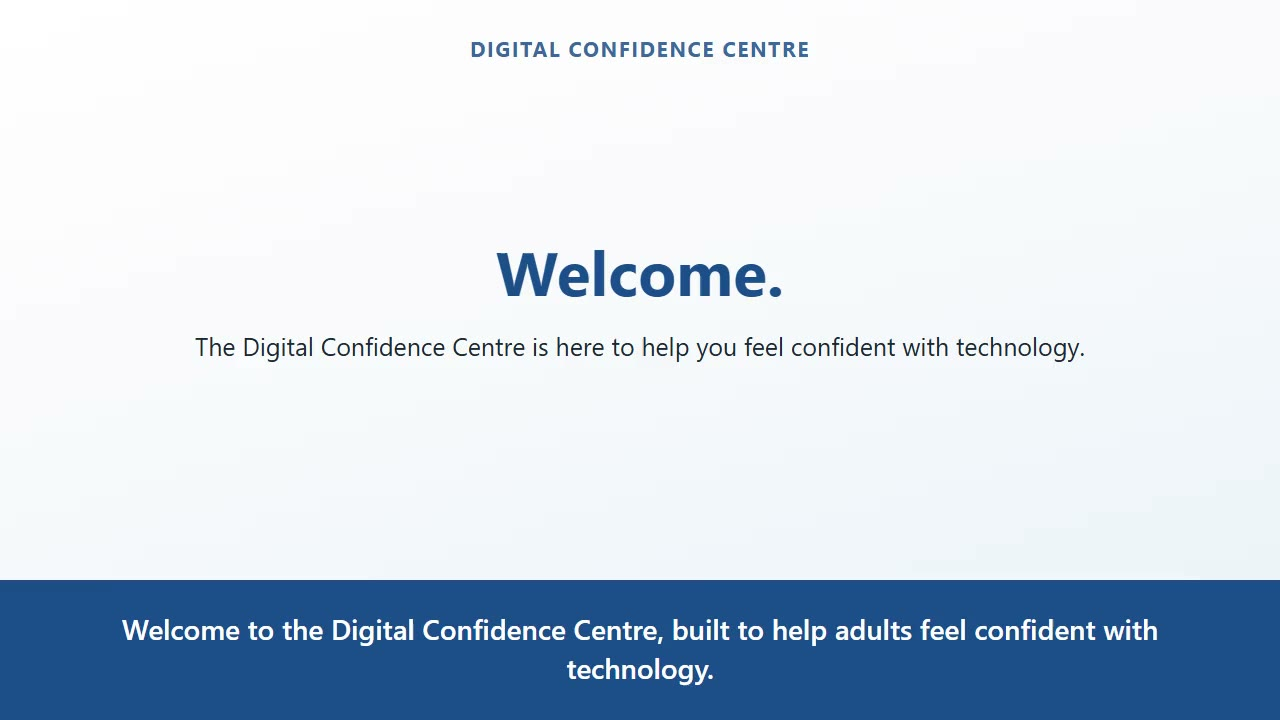
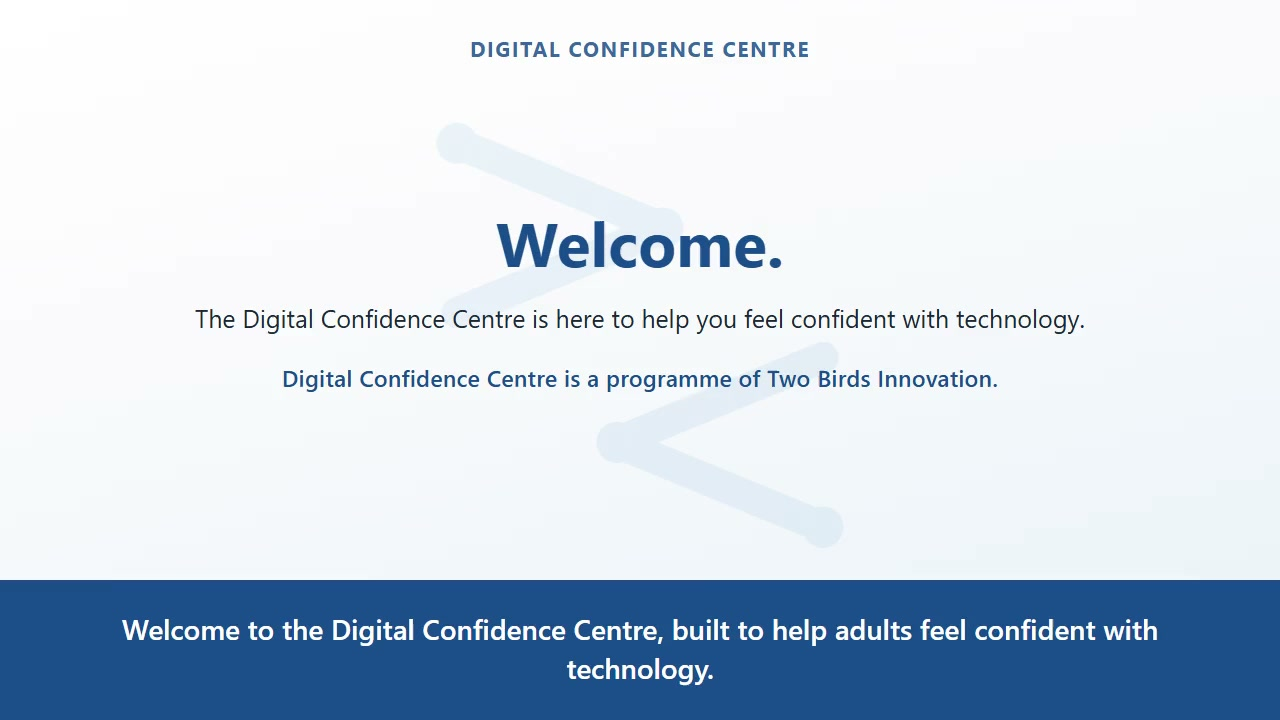
feat(beta-video): re-render welcome video with trust watermark + attribution line
S-DCC-VIDEO-WATERMARK-001, per beta-welcome-wizard-SPEC-2026-07-28.md S18.

Scene 1 (opening) gains a plate-less Two Birds chevron watermark
(recoloured white->#0066CC, 620x620px, 6% opacity, title-card treatment
only -- hidden on scenes 2-7) plus the canonical attribution line
("Digital Confidence Centre is a programme of Two Birds Innovation.",
FR equivalent) beneath the existing note text. Named, dated Feathers
Model exception recorded in hal-stack/brand/guidelines/dcc-adult.md's
Logo section per S18.5 -- one-line revert path if Aaron wants to undo it.

Nothing else changed: narration, scene durations, and both .vtt files
are untouched (diff-verified against the live captions, ignoring only
timestamps) -- durations land within 0.5s of the approved 2026-07-27
cuts (38.6s EN vs 39.1s, 43.3s FR exact match). Re-rendered via the
existing loon-render-generic.py pipeline (Playwright capture + edge-tts
+ ffmpeg, no pipeline changes needed), copied over videos/dcc-beta-welcome-
{en,fr}.mp4 + regenerated poster frames from the new cut. Dated 2026-07-27
masters kept in place as the record of what Aaron reviewed; new masters
dated 2026-07-28 alongside them, matching the existing convention.

Verified: poster frame matches new video's first frame; live wizard
(Playwright) loads the new video (readyState 4, HAVE_ENOUGH_DATA), 0
console errors.

Claude-Session: https://claude.ai/code/session_0158DPsJfv3z2EoGBFeuuLXs

Changed region(s): [[0.1562, 0.3056, 0.8438, 0.55]]

diff --git a/_feedback/poc/dcc-beta-welcome-render-v2.html b/_feedback/poc/dcc-beta-welcome-render-v2.html
@@ -32,15 +32,32 @@
   .stage{position:relative;width:1280px;height:720px;overflow:hidden;
     background:linear-gradient(165deg,#FFFFFF 0%,#F8F9FB 45%,#EAF1F8 100%);color:var(--ink);
     font-family:'Source Sans 3','Segoe UI',Roboto,Helvetica,Arial,sans-serif}
-  .slide{position:absolute;inset:0;display:flex;flex-direction:column;align-items:center;justify-content:center;
+  .slide{position:absolute;inset:0;z-index:1;display:flex;flex-direction:column;align-items:center;justify-content:center;
     padding:56px 76px 176px;text-align:center;opacity:0}
   .slide.active{opacity:1}
   .wordmark{position:absolute;top:34px;left:0;right:0;text-align:center;
     font-size:21px;font-weight:700;letter-spacing:1.6px;text-transform:uppercase;color:var(--primary);opacity:.85}
+
+  /* ---- Opening watermark (scene 1 only) --------------------------------------
+     Oversized attribution mark, per beta-welcome-wizard-SPEC-2026-07-28.md S18.
+     Plate-less variant of the real V05 mark (chevrons + identity circles only,
+     no filled rounded-square background -- a 620px filled blue square behind the
+     title would be a colour block, not a watermark). Recoloured white->#0066CC
+     (true Two Birds Blue, not DCC's #1D4E89 -- the Feathers Model forbids
+     blending palettes) at 6% opacity, well under the 8% ceiling. Title-card
+     treatment only: shown on scene 1, hidden on scenes 2-7 (S17.5), sitting
+     behind slide content (z-index 0 vs .slide's 1) but above the stage
+     background. Named, dated exception to the Feathers Model's "never the
+     master chevron in a sub-brand's hero" rule -- recorded in
+     hal-stack/brand/guidelines/dcc-adult.md's Logo section, Aaron's direct
+     request 2026-07-28. */
+  #watermark{position:absolute;top:50%;left:50%;transform:translate(-50%,-54%);
+    width:620px;height:620px;z-index:0;opacity:.06;pointer-events:none;display:none}
   .fig{width:150px;height:150px;margin-bottom:26px}
   .onscreen{font-size:42px;font-weight:600;line-height:1.26;max-width:90%;color:var(--primary)}
   .titlecard{font-size:62px;font-weight:700;letter-spacing:.2px;color:var(--primary);line-height:1.14}
   .note{margin-top:22px;font-size:25px;color:var(--ink);max-width:82%;line-height:1.45}
+  .attrib{margin-top:26px;font-size:23px;font-weight:600;color:var(--primary);letter-spacing:.3px}
   .cards{display:flex;gap:18px;flex-wrap:wrap;justify-content:center;margin-top:26px;max-width:96%}
   .card{background:#FFFFFF;border:2px solid var(--border);border-radius:14px;
     padding:16px 20px;font-size:22px;color:var(--ink);min-width:180px}
@@ -98,6 +115,7 @@
 <body>
 <div class="stage" id="stage">
   <div class="wordmark" id="wordmark">Digital Confidence Centre</div>
+  <div id="watermark"></div>
   <div class="caption" id="caption"></div>
 </div>
 <script>
@@ -135,6 +153,24 @@ const TB_MARK = `<svg class="tbmark" viewBox="0 0 1024 1024" xmlns="http://www.w
   </g>
 </svg>`;
 
+/* Plate-less, recoloured variant of TB_MARK for the opening watermark (S18.1).
+   Same coordinates as TB_MARK's two chevron groups; no plate rect, no gradient,
+   stroke/fill #0066CC instead of white. Rendered at native (converged) logo
+   position -- unlike the closing scene, this is a static title-card mark, not
+   an animated convergence. */
+const WATERMARK_MARK = `<svg viewBox="0 0 1024 1024" xmlns="http://www.w3.org/2000/svg" aria-hidden="true" style="width:100%;height:100%;display:block">
+  <g id="wm-chev-a">
+    <polyline points="210,195 550,335 210,475" fill="none" stroke="#0066CC" stroke-width="52" stroke-linecap="round" stroke-linejoin="round"/>
+    <circle cx="550" cy="335" r="34" fill="#0066CC"/>
+    <circle cx="210" cy="195" r="34" fill="#0066CC"/>
+  </g>
+  <g id="wm-chev-b">
+    <polyline points="814,549 474,689 814,829" fill="none" stroke="#0066CC" stroke-width="52" stroke-linecap="round" stroke-linejoin="round"/>
+    <circle cx="474" cy="689" r="34" fill="#0066CC"/>
+    <circle cx="814" cy="829" r="34" fill="#0066CC"/>
+  </g>
+</svg>`;
+
 const FB_MOCK_EN = `<div class="fbmock">
   <div class="block">
     <h3>Tell us what you think</h3>
@@ -168,7 +204,7 @@ function closing(thanks, byline, soon) {
 
 const SCENES = {
   en: [
-    { html:`<div class="titlecard">Welcome.</div><div class="note">The Digital Confidence Centre is here to help you feel confident with technology.</div>`,
+    { html:`<div class="titlecard">Welcome.</div><div class="note">The Digital Confidence Centre is here to help you feel confident with technology.</div><div class="attrib">Digital Confidence Centre is a programme of Two Birds Innovation.</div>`,
       cap:`Welcome to the Digital Confidence Centre, built to help adults feel confident with technology.` },
 
     { html:`<div class="onscreen">Short lessons, at your own pace.</div><div class="cards"><div class="card"><span class="ic">🛡</span>Spotting scams</div><div class="card"><span class="ic">🏦</span>Banking safely</div><div class="card"><span class="ic">🔑</span>Passwords</div><div class="card"><span class="ic">📹</span>Video calls</div><div class="card"><span class="ic">🩺</span>Telehealth</div><div class="card"><span class="ic">🤖</span>Artificial intelligence</div></div>`,
@@ -192,7 +228,7 @@ const SCENES = {
   ],
 
   fr: [
-    { html:`<div class="titlecard">Bienvenue.</div><div class="note">Le Centre de confiance numerique est la pour vous aider a vous sentir a l'aise avec la technologie.</div>`,
+    { html:`<div class="titlecard">Bienvenue.</div><div class="note">Le Centre de confiance numerique est la pour vous aider a vous sentir a l'aise avec la technologie.</div><div class="attrib">Le Centre de confiance numerique est un programme de Two Birds Innovation.</div>`,
       cap:`Bienvenue au Centre de confiance numerique, pour vous aider a vous sentir a l'aise avec la technologie.` },
 
     { html:`<div class="onscreen">De courtes lecons, a votre rythme.</div><div class="cards"><div class="card"><span class="ic">🛡</span>Reperer les fraudes</div><div class="card"><span class="ic">🏦</span>Banque en ligne</div><div class="card"><span class="ic">🔑</span>Mots de passe</div><div class="card"><span class="ic">📹</span>Appels video</div><div class="card"><span class="ic">🩺</span>Telesante</div><div class="card"><span class="ic">🤖</span>Intelligence artificielle</div></div>`,
@@ -226,6 +262,8 @@ window.scenes = scenes; // exposed for the capture script (page.evaluate reads c
 
 const stage = document.getElementById('stage');
 const caption = document.getElementById('caption');
+const watermark = document.getElementById('watermark');
+watermark.innerHTML = WATERMARK_MARK;
 const nodes = scenes.map((sc)=>{
   const d = document.createElement('div');
   d.className = 'slide';
@@ -273,6 +311,7 @@ function paintClosing(node, k, n) {
 window.show = function (i, k) {
   nodes.forEach((n, j) => n.classList.toggle('active', j === i));
   caption.textContent = scenes[i].cap;
+  watermark.style.display = (i === 0) ? 'block' : 'none';
   const n = window.subframes(i);
   const closingNode = nodes[i].querySelector('.closing');
   if (closingNode) { paintClosing(closingNode, (k == null ? n - 1 : k), n); }
